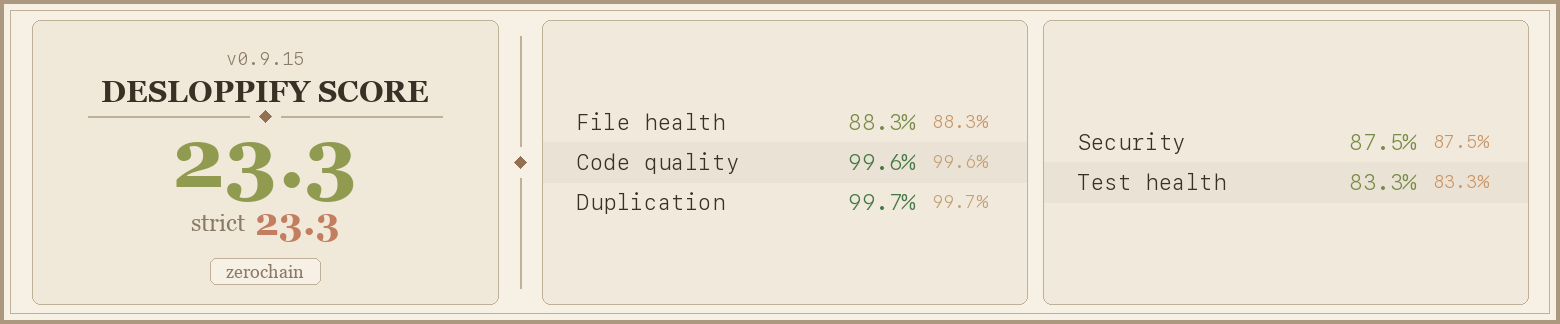
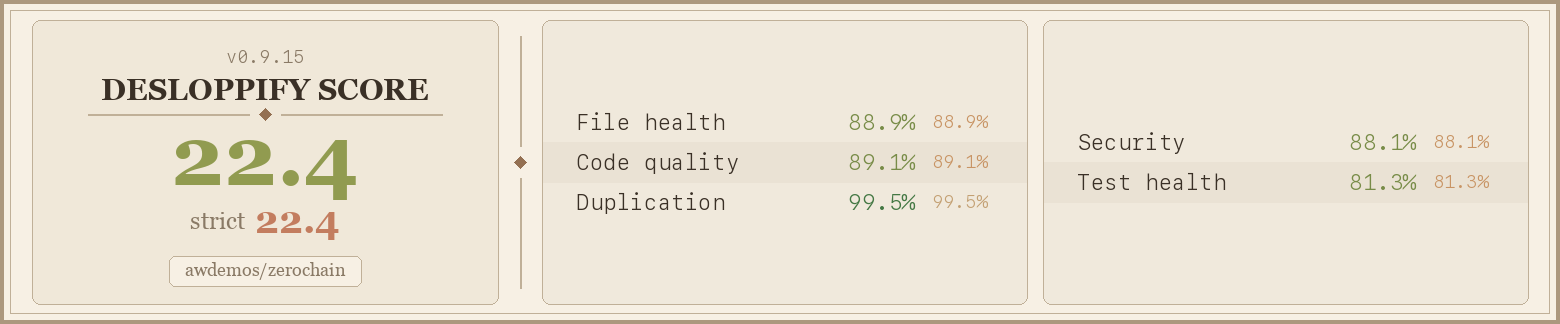
desloppify: fix clippy warnings, cargo error, and add crate docs
- Fix async_nats::Subscriber missing StreamExt import under --all-features
- Add futures dependency to zerochain-broker nats feature
- Fix clippy lints: ptr_arg, too_many_arguments, only_used_in_recursion,
  if_same_then_else, expect_used, missing_errors_doc, must_use_candidate,
  format_push_string, io_other_error, doc_markdown, redundant_closure,
  unnecessary_sort_by, manual_let_else
- Add crate-level rustdoc to all lib.rs files
- Permanently skip false-positive unused imports and cycle detections

diff --git a/crates/zerochain-core/src/lua_engine/api.rs b/crates/zerochain-core/src/lua_engine/api.rs
@@ -131,15 +131,13 @@ fn lua_value_to_json(val: &mlua::Value) -> serde_json::Value {
         }
         Value::Table(t) => {
             let mut map = serde_json::Map::new();
-            for pair in t.pairs::<mlua::Value, mlua::Value>() {
-                if let Ok((k, v)) = pair {
-                    let key_str = match &k {
-                        Value::String(s) => s.to_str().map(|v| v.to_string()).unwrap_or_default(),
-                        Value::Integer(n) => n.to_string(),
-                        _ => continue,
-                    };
-                    map.insert(key_str, lua_value_to_json(&v));
-                }
+            for (k, v) in t.pairs::<mlua::Value, mlua::Value>().flatten() {
+                let key_str = match &k {
+                    Value::String(s) => s.to_str().map(|v| v.to_string()).unwrap_or_default(),
+                    Value::Integer(n) => n.to_string(),
+                    _ => continue,
+                };
+                map.insert(key_str, lua_value_to_json(&v));
             }
             serde_json::Value::Object(map)
         }
@@ -249,7 +247,7 @@ pub fn save_shared_store(
     let state_dir = workflow_root.join(".state");
     std::fs::create_dir_all(&state_dir).map_err(|e| Error::Io {
         path: state_dir.clone(),
-        source: e.into(),
+        source: e,
     })?;
     let store_path = state_dir.join("lua_store.json");
     let map = store.lock().map_err(|_| Error::Lua {
@@ -260,7 +258,7 @@ pub fn save_shared_store(
     })?;
     std::fs::write(&store_path, json).map_err(|e| Error::Io {
         path: store_path,
-        source: e.into(),
+        source: e,
     })?;
     Ok(())
 }

diff --git a/crates/zerochain-daemon/src/main.rs b/crates/zerochain-daemon/src/main.rs
@@ -89,7 +89,7 @@ async fn main() -> Result<()> {
             state
                 .init_workflow(path.as_deref(), &name, template.as_deref())
                 .await?;
-            println!("initialized workflow: {}", name);
+            println!("initialized workflow: {name}");
         }
         Commands::Run {
             workflow_id,
@@ -97,11 +97,11 @@ async fn main() -> Result<()> {
         } => {
             let workflow = state
                 .get_workflow(&workflow_id)
-                .ok_or_else(|| anyhow::anyhow!("workflow not found: {}", workflow_id))?;
+                .ok_or_else(|| anyhow::anyhow!("workflow not found: {workflow_id}"))?;
             let plan = workflow.execution_plan();
 
             if plan.is_complete() {
-                println!("workflow complete: {}", workflow_id);
+                println!("workflow complete: {workflow_id}");
                 return Ok(());
             }
 
@@ -144,7 +144,7 @@ async fn main() -> Result<()> {
                 return Ok(());
             }
             for (id, status) in workflows {
-                println!("{}\t{}", id, status);
+                println!("{id}\t{status}");
             }
         }
         Commands::Status {
@@ -152,15 +152,15 @@ async fn main() -> Result<()> {
         } => {
             let workflow = state
                 .get_workflow(&wid)
-                .ok_or_else(|| anyhow::anyhow!("workflow not found: {}", wid))?;
+                .ok_or_else(|| anyhow::anyhow!("workflow not found: {wid}"))?;
             let plan = workflow.execution_plan();
             let complete = plan.is_complete();
             let next = plan.next_stage().map(|s| s.raw.as_str()).unwrap_or("none");
             println!("id:       {}", workflow.id);
             println!("root:     {}", workflow.root.display());
             println!("stages:   {}", workflow.stages.len());
-            println!("complete: {}", complete);
-            println!("next:     {}", next);
+            println!("complete: {complete}");
+            println!("next:     {next}");
             for stage in &workflow.stages {
                 let marker = if stage.is_complete {
                     "done"
@@ -181,7 +181,7 @@ async fn main() -> Result<()> {
                 return Ok(());
             }
             for (id, status) in workflows {
-                println!("{}\t{}", id, status);
+                println!("{id}\t{status}");
             }
         }
         Commands::Approve {
@@ -191,7 +191,7 @@ async fn main() -> Result<()> {
             state
                 .mark_stage_complete(&workflow_id, &stage_id)
                 .await?;
-            println!("approved: {} / {}", workflow_id, stage_id);
+            println!("approved: {workflow_id} / {stage_id}");
         }
         Commands::Reject {
             workflow_id,
@@ -201,7 +201,7 @@ async fn main() -> Result<()> {
             state
                 .mark_stage_error(&workflow_id, &stage_id, feedback.as_deref())
                 .await?;
-            println!("rejected: {} / {}", workflow_id, stage_id);
+            println!("rejected: {workflow_id} / {stage_id}");
         }
         Commands::Templates => {
             let registry = TemplateRegistry::new();

diff --git a/crates/zerochain-core/src/context.rs b/crates/zerochain-core/src/context.rs
@@ -6,6 +6,7 @@ use crate::error::{Error, Result};
 
 #[derive(Debug, Clone, Serialize, Deserialize, PartialEq)]
 #[non_exhaustive]
+#[derive(Default)]
 pub struct ContextFrontmatter {
     #[serde(default)]
     pub role: Option<String>,
@@ -40,23 +41,6 @@ pub struct MultimodalInput {
     pub detail: Option<String>,
 }
 
-impl Default for ContextFrontmatter {
-    fn default() -> Self {
-        Self {
-            role: None,
-            container: None,
-            command: None,
-            human_gate: false,
-            timeout: None,
-            network: None,
-            definition_of_done: None,
-            provider_profile: None,
-            thinking_mode: None,
-            capture_reasoning: false,
-            multimodal_input: vec![],
-        }
-    }
-}
 
 #[derive(Debug, Clone)]
 #[non_exhaustive]

diff --git a/crates/zerochain-core/src/workflow.rs b/crates/zerochain-core/src/workflow.rs
@@ -145,7 +145,7 @@ impl Workflow {
                     })?;
             }
 
-            let ctx_content = format!("---\nrole: {}\n---\n# {stage_name}\n", stage_name);
+            let ctx_content = format!("---\nrole: {stage_name}\n---\n# {stage_name}\n");
             let ctx_path = stage_dir.join("CONTEXT.md");
             tokio::fs::write(&ctx_path, ctx_content)
                 .await
@@ -184,17 +184,7 @@ impl Workflow {
             })?;
 
         let after_stage = &self.stages[idx];
-        let next_seq = if idx + 1 < self.stages.len() {
-            let cur = after_stage.id.sequence;
-            let next = self.stages[idx + 1].id.sequence;
-            if next > cur {
-                cur
-            } else {
-                cur
-            }
-        } else {
-            after_stage.id.sequence
-        };
+        let next_seq = after_stage.id.sequence;
 
         let new_seq = next_seq + 1;
         let new_raw = format!("{new_seq:02}_{new_stage_name}");
@@ -214,7 +204,7 @@ impl Workflow {
             })?;
         tokio::fs::write(
             new_dir.join("CONTEXT.md"),
-            format!("---\nrole: {}\n---\n# {new_stage_name}\n", new_stage_name),
+            format!("---\nrole: {new_stage_name}\n---\n# {new_stage_name}\n"),
         )
         .await
         .map_err(|e| Error::Io {

diff --git a/crates/zerochain-cas/src/s3.rs b/crates/zerochain-cas/src/s3.rs
@@ -108,14 +108,12 @@ impl StorageBackend for S3Backend {
             .bucket
             .put_object(&key, data)
             .await
-            .map_err(|e| CasError::Io(std::io::Error::new(
-                std::io::ErrorKind::Other,
+            .map_err(|e| CasError::Io(std::io::Error::other(
                 format!("s3 put failed: {e}"),
             )))?;
 
         if response.status_code() != 200 {
-            return Err(CasError::Io(std::io::Error::new(
-                std::io::ErrorKind::Other,
+            return Err(CasError::Io(std::io::Error::other(
                 format!("s3 put failed with status: {}", response.status_code()),
             )));
         }
@@ -130,8 +128,7 @@ impl StorageBackend for S3Backend {
             .bucket
             .get_object(&key)
             .await
-            .map_err(|e| CasError::Io(std::io::Error::new(
-                std::io::ErrorKind::Other,
+            .map_err(|e| CasError::Io(std::io::Error::other(
                 format!("s3 get failed: {e}"),
             )))?;
 
@@ -140,8 +137,7 @@ impl StorageBackend for S3Backend {
         }
 
         if response.status_code() != 200 {
-            return Err(CasError::Io(std::io::Error::new(
-                std::io::ErrorKind::Other,
+            return Err(CasError::Io(std::io::Error::other(
                 format!("s3 get failed with status: {}", response.status_code()),
             )));
         }

diff --git a/crates/zerochain-daemon/src/state.rs b/crates/zerochain-daemon/src/state.rs
@@ -265,17 +265,17 @@ impl AppState {
 
         let profile_name = ctx
             .as_ref()
-            .map(|c| resolve_profile_name(c))
+            .map(resolve_profile_name)
             .unwrap_or_else(|| "generic".to_string());
 
         let thinking_mode = ctx
             .as_ref()
-            .map(|c| resolve_thinking_mode(c))
+            .map(resolve_thinking_mode)
             .unwrap_or_default();
 
         let capture_reasoning = ctx
             .as_ref()
-            .map(|c| resolve_capture_reasoning(c))
+            .map(resolve_capture_reasoning)
             .unwrap_or(false);
 
         let profile = resolve_profile(&profile_name);

diff --git a/crates/zerochain-core/src/jj.rs b/crates/zerochain-core/src/jj.rs
@@ -225,7 +225,7 @@ impl JjWorkspace {
 
     pub async fn workspace_size(&self) -> Result<u64> {
         let mut total: u64 = 0;
-        self.dir_size(&self.path, &mut total).await?;
+        Self::dir_size(&self.path, &mut total).await?;
         Ok(total)
     }
 
@@ -273,7 +273,6 @@ impl JjWorkspace {
     }
 
     fn dir_size<'a>(
-        &'a self,
         dir: &'a Path,
         total: &'a mut u64,
     ) -> std::pin::Pin<Box<dyn std::future::Future<Output = Result<()>> + Send + 'a>> {
@@ -292,7 +291,7 @@ impl JjWorkspace {
                     source: e,
                 })?;
                 if meta.is_dir() {
-                    self.dir_size(&entry.path(), total).await?;
+                    Self::dir_size(&entry.path(), total).await?;
                 } else {
                     *total += meta.len();
                 }

diff --git a/crates/zerochain-llm/src/profiles/kimi_k2.rs b/crates/zerochain-llm/src/profiles/kimi_k2.rs
@@ -14,13 +14,12 @@ impl ProviderProfile for KimiK2Profile {
         config: &LLMConfig,
         ctx: &StageContext,
     ) -> Result<(), LLMError> {
-        if !matches!(ctx.thinking_mode, ThinkingMode::Disabled) {
-            if (config.temperature - 1.0).abs() > f32::EPSILON {
+        if !matches!(ctx.thinking_mode, ThinkingMode::Disabled)
+            && (config.temperature - 1.0).abs() > f32::EPSILON {
                 return Err(LLMError::Config(
                     "Kimi K2.5 thinking mode requires temperature=1.0".into(),
                 ));
             }
-        }
         Ok(())
     }
 

diff --git a/crates/zerochain-core/src/stage.rs b/crates/zerochain-core/src/stage.rs
@@ -84,7 +84,7 @@ pub struct Stage {
 }
 
 impl Stage {
-    pub async fn from_dir(dir: &PathBuf) -> Result<Self> {
+    pub async fn from_dir(dir: &std::path::Path) -> Result<Self> {
         let dir_name = dir
             .file_name()
             .ok_or_else(|| Error::InvalidStageName {
@@ -120,7 +120,7 @@ impl Stage {
 
         Ok(Stage {
             id,
-            path: dir.clone(),
+            path: dir.to_path_buf(),
             context_path,
             input_path,
             output_path,

diff --git a/crates/zerochain-broker/src/lib.rs b/crates/zerochain-broker/src/lib.rs
@@ -1,3 +1,5 @@
+//! Message broker abstraction for cross-pod agent communication.
+
 use serde::{Deserialize, Serialize};
 use zerochain_cas::Cid;
 

diff --git a/crates/zerochain-cas/src/lib.rs b/crates/zerochain-cas/src/lib.rs
@@ -1,3 +1,5 @@
+//! Content-addressed storage using Blake3 hashing.
+
 mod backend;
 mod cid;
 mod error;

diff --git a/crates/zerochain-cas/src/store.rs b/crates/zerochain-cas/src/store.rs
@@ -148,7 +148,7 @@ async fn list_local(local: &LocalBackend) -> Result<Vec<Cid>> {
         }
     }
 
-    cids.sort_by(|a, b| a.as_hex().cmp(&b.as_hex()));
+    cids.sort_by_key(|a| a.as_hex());
     Ok(cids)
 }
 